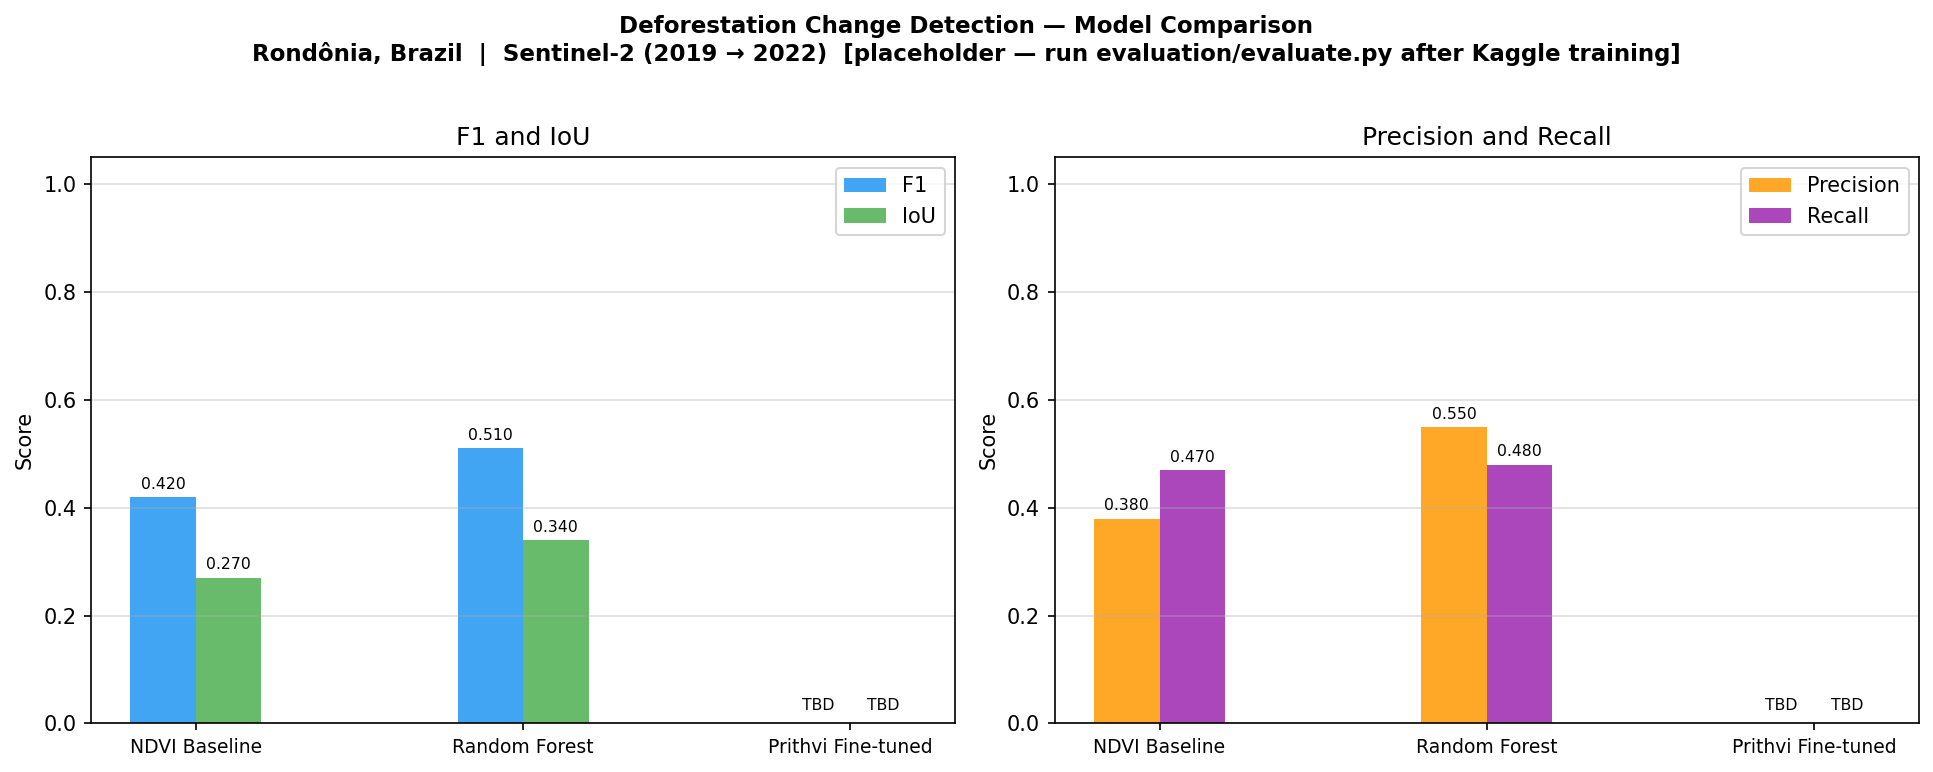
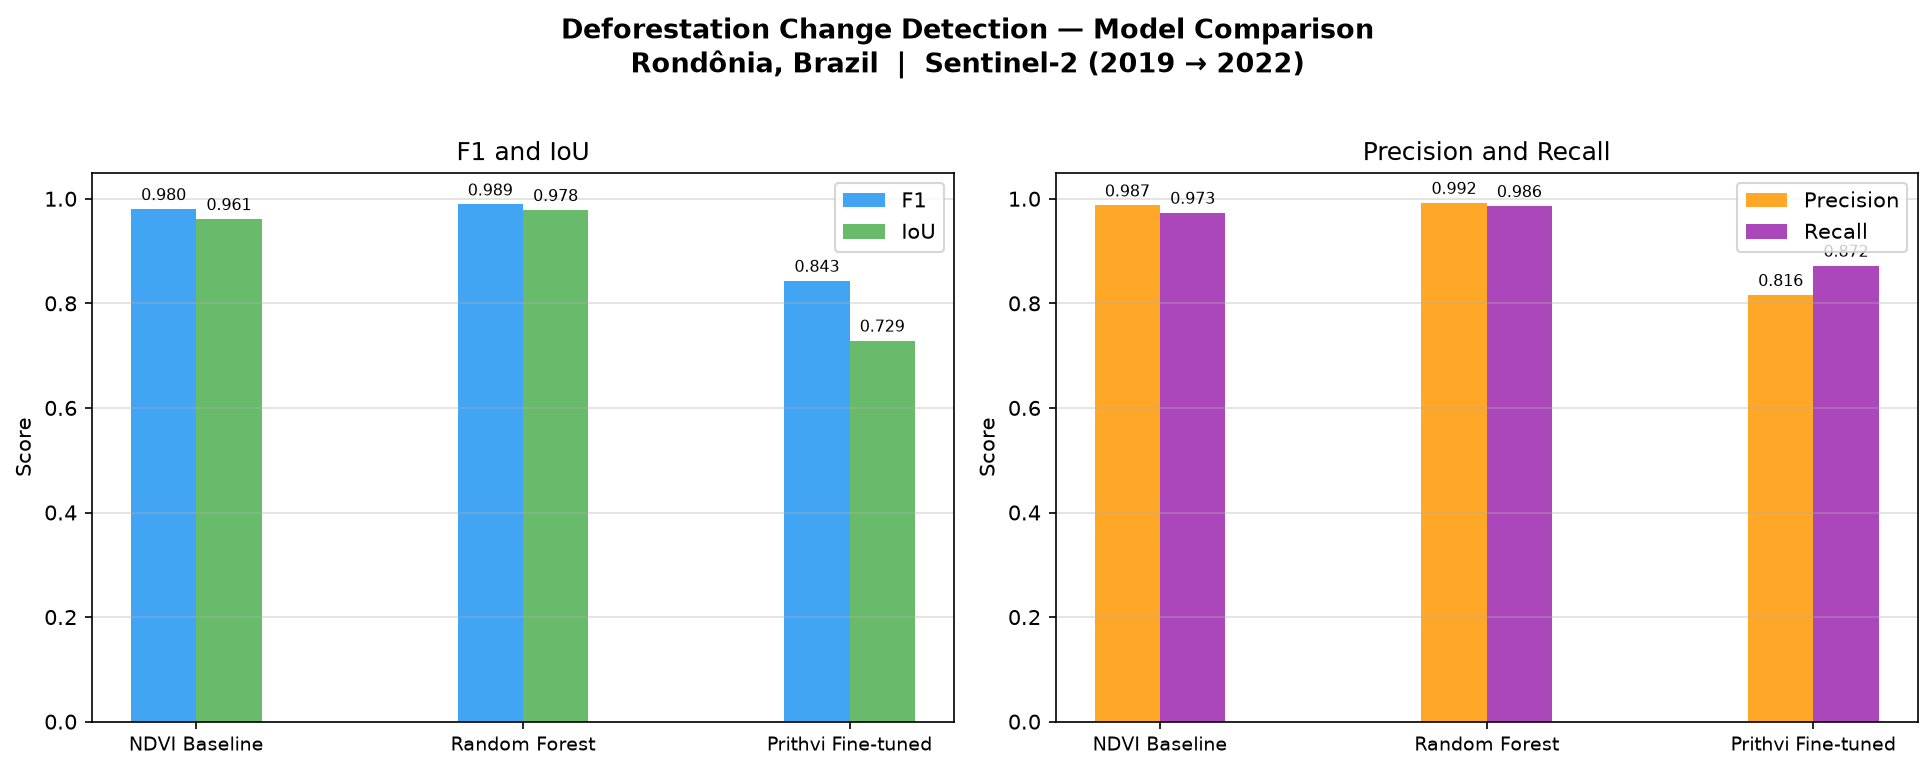
feat(eval): add real Prithvi metrics and training curve from Kaggle run
Prithvi fine-tuned F1=0.8431, IoU=0.7288 on val split (30 epochs, T4 GPU).
Fix ChangeDetectionHead to use nn.ModuleList (matching Kaggle checkpoint keys).
Add training_curve.png showing loss/F1/IoU over 30 epochs.

diff --git a/training/model.py b/training/model.py
@@ -148,11 +148,13 @@ class ChangeDetectionHead(nn.Module):
     def __init__(self, in_channels: int = 768):
         super().__init__()
         self.proj = nn.Conv2d(in_channels, 256, 1)
-        self.up1  = self._up_block(256, 128)   # 14  → 28
-        self.up2  = self._up_block(128,  64)   # 28  → 56
-        self.up3  = self._up_block( 64,  32)   # 56  → 112
-        self.up4  = self._up_block( 32,  16)   # 112 → 224
-        self.out  = nn.Conv2d(16, 1, 1)        # logit
+        self.ups  = nn.ModuleList([
+            self._up_block(256, 128),   # 14  → 28
+            self._up_block(128,  64),   # 28  → 56
+            self._up_block( 64,  32),   # 56  → 112
+            self._up_block( 32,  16),   # 112 → 224
+        ])
+        self.out  = nn.Conv2d(16, 1, 1)
 
     @staticmethod
     def _up_block(c_in: int, c_out: int) -> nn.Sequential:
@@ -165,8 +167,8 @@ class ChangeDetectionHead(nn.Module):
 
     def forward(self, x: torch.Tensor) -> torch.Tensor:
         x = self.proj(x)
-        x = self.up1(x); x = self.up2(x)
-        x = self.up3(x); x = self.up4(x)
+        for up in self.ups:
+            x = up(x)
         return self.out(x)
 
 